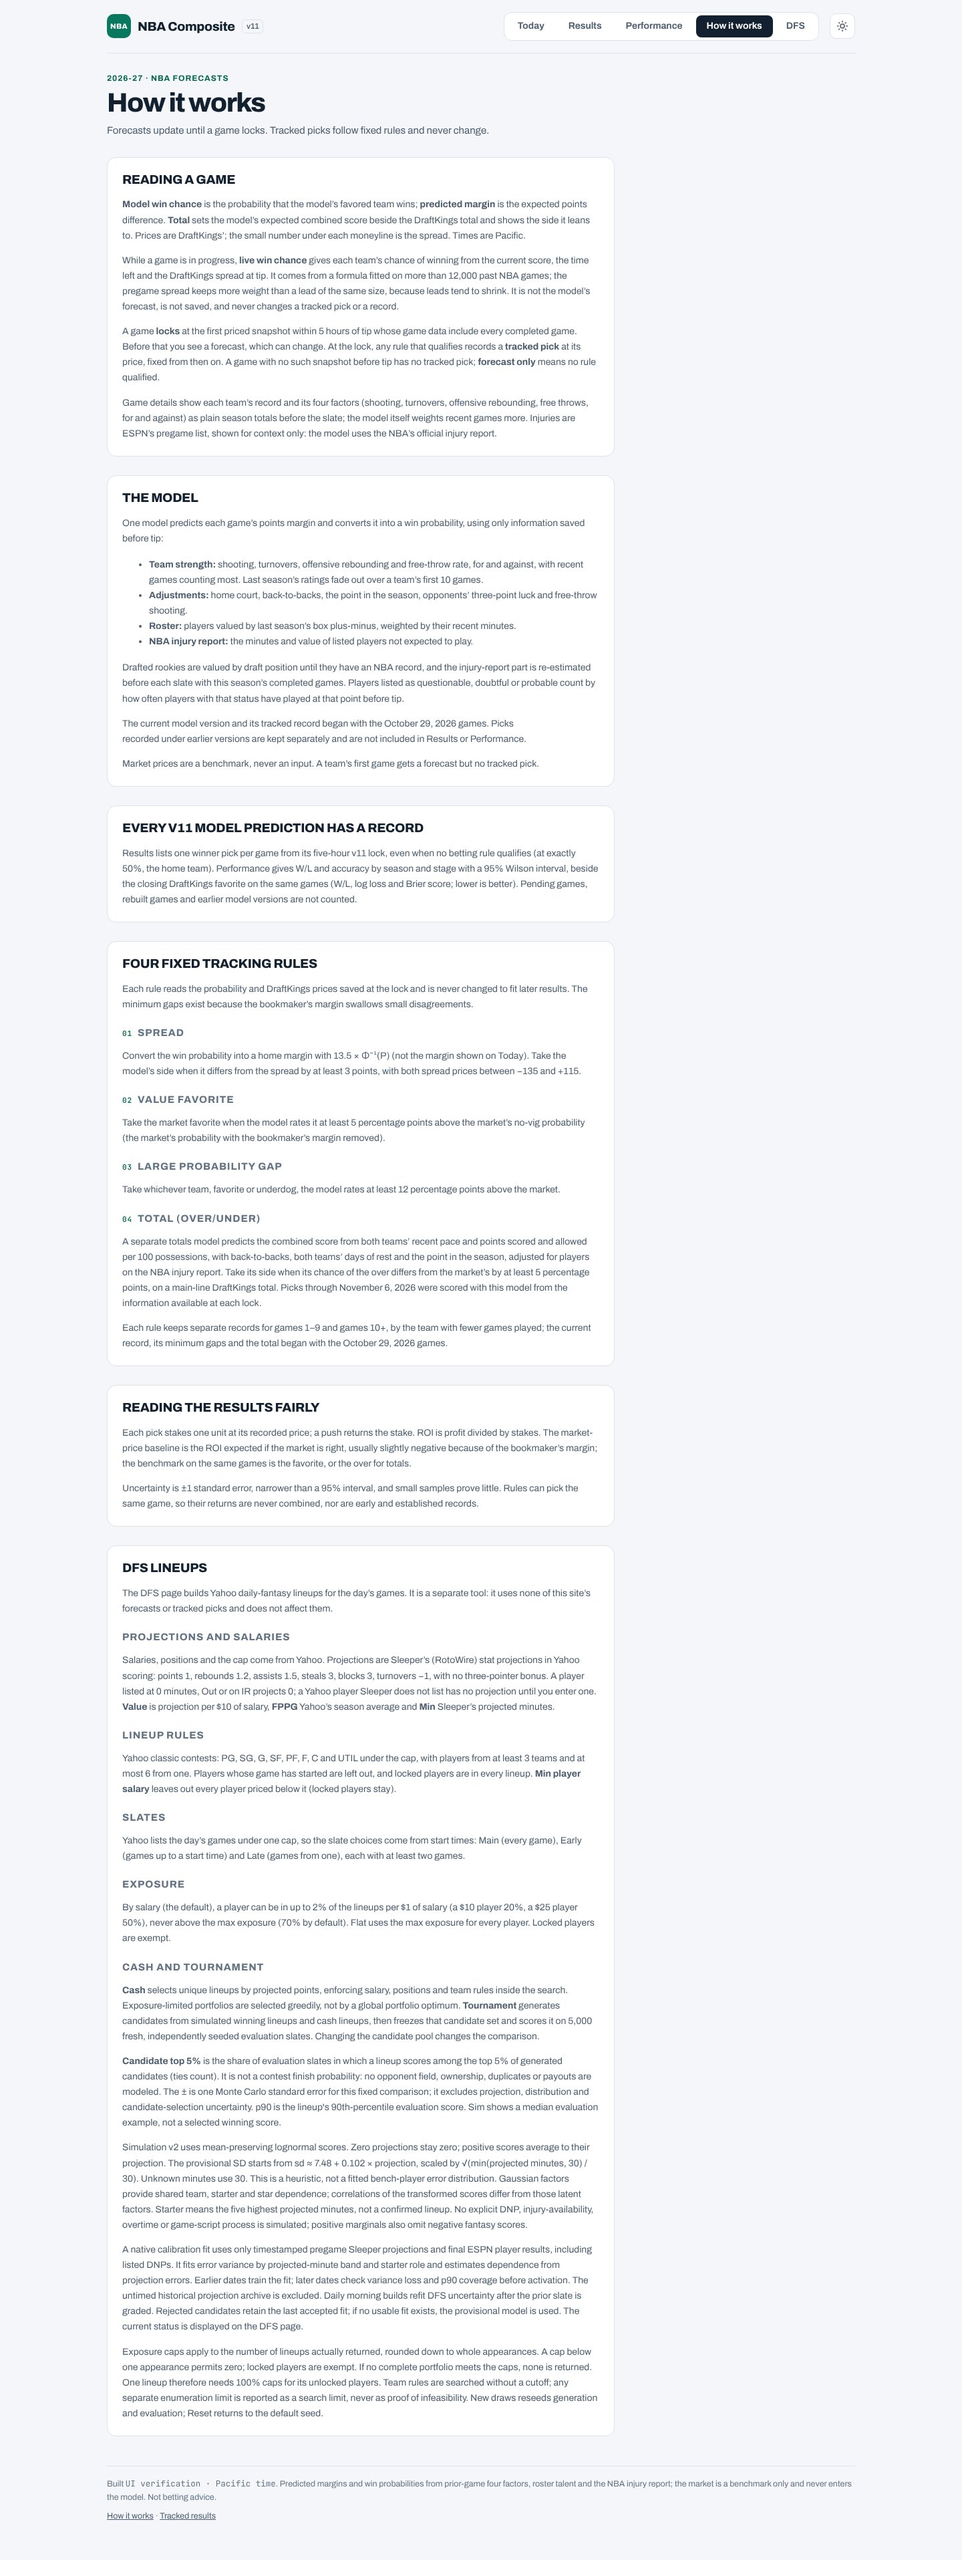
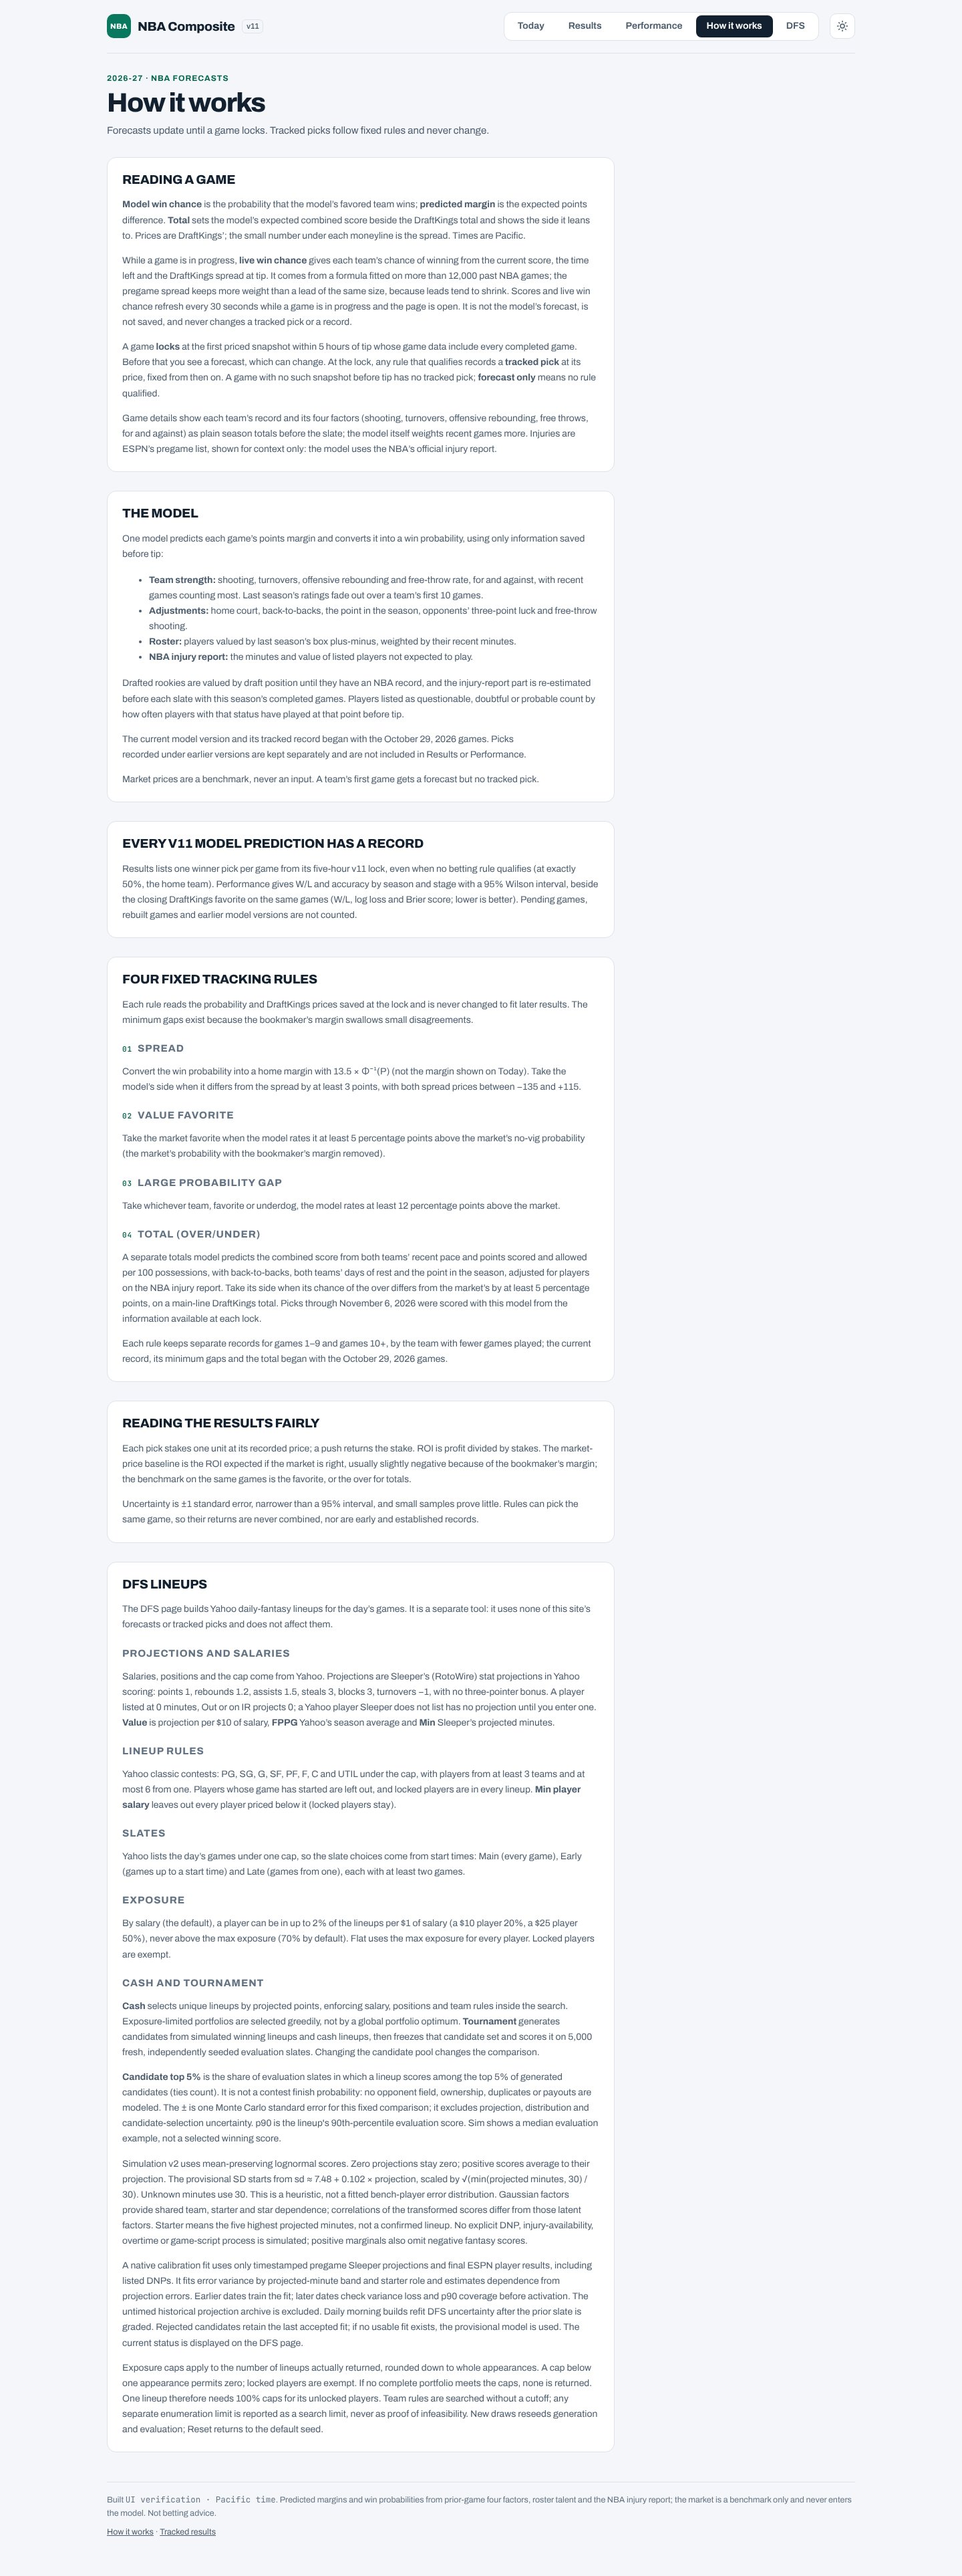
Today: refresh scores and live win chance every 30 s while games are live
The score overlay fetched ESPN's scoreboard once per page load, so an
open page showed stale scores and a stale live win chance. It now
re-fetches while the page is open: every 30 s while one of its games is
in progress; otherwise at the next tip (no sooner than 1 minute, no later
than 10); never once every game is final. A failed fetch retries after
1, 2, ... minutes (at most 10 in a row). A hidden tab does not fetch and
catches up when shown again. Display only, as before.

The browser check drives a fake clock: a live game re-fetched at 30 s
with scores and live win chance updated, a hidden tab waiting and
catching up, the final hiding the readout and stopping the polling, and
a page opened before tip fetching again at the tip. On the real
2026-11-06 slate the open page re-fetched after 30 s and updated all
four live cards. How it works and CLAUDE.md say so.

Claude-Session: https://claude.ai/code/session_01Tymo9CzGMxX6H3C7yoJrYC

Changed region(s): [[0.125, 0.0311, 0.625, 0.9632]]

diff --git a/research/check_public_ui.py b/research/check_public_ui.py
@@ -326,6 +326,73 @@ def main():
                     live.screenshot(path=str(out/f'{device}-fixture-live-card.png'))
                 checks.append(f'Live win chance · BOS {fmt(ph)} / NYK {fmt(1-ph)} at Q2 4:00, 42–38, BOS −6 at tip, '
                               'matching live_wp.win_prob; hidden for a final game; no horizontal overflow')
+                # Auto-refresh (owner request, 2026-11-07): a live game is
+                # re-fetched every 30 s (fake clock), a hidden tab waits and
+                # catches up when shown, polling stops once every game is final
+                def event(state, name, period, clock, home, away):
+                    return {'id': 'fixture-3', 'status': {'type': {'state': state, 'name': name, 'completed': state == 'post',
+                            'shortDetail': 'Final' if state == 'post' else ''}, 'period': period, 'displayClock': clock},
+                            'competitions': [{'competitors': [{'homeAway': 'home', 'score': str(home)},
+                                                              {'homeAway': 'away', 'score': str(away)}]}]}
+                feed = [event('in', 'STATUS_IN_PROGRESS', 2, '4:00', 42, 38), event('in', 'STATUS_IN_PROGRESS', 3, '7:30', 61, 63),
+                        event('in', 'STATUS_IN_PROGRESS', 4, '0:45.5', 99, 99), event('post', 'STATUS_FINAL', 4, '0.0', 101, 99)]
+                calls = []
+                def serve(route):
+                    calls.append(route.request.url)
+                    route.fulfill(json={'events': [feed[min(len(calls), len(feed)) - 1]]})
+                page.unroute_all()
+                page.clock.install()
+                page.route('**/apis/site/v2/sports/basketball/nba/scoreboard?**', serve)
+                page.goto(f'{base}/fixture/index.html')
+                live.locator('.st').filter(has_text='Q2 4:00').wait_for()
+                assert len(calls) == 1, calls
+                page.clock.run_for(31_000)
+                live.locator('.st').filter(has_text='Q3 7:30').wait_for()
+                assert len(calls) == 2
+                assert live.locator('.sc[data-side="home"]').inner_text() == '61'
+                ph = live_wp.win_prob(61 - 63, 6, live_wp.tau(3, 450), fit)
+                assert box.locator('[data-wp="home"]').inner_text() == fmt(ph)
+                page.evaluate("Object.defineProperty(document,'hidden',{value:true,configurable:true})")
+                page.clock.run_for(5 * 60_000)
+                assert len(calls) == 2, 'a hidden tab fetched'
+                page.evaluate("Object.defineProperty(document,'hidden',{value:false,configurable:true});"
+                              "document.dispatchEvent(new Event('visibilitychange'))")
+                live.locator('.st').filter(has_text='Q4 0:45.5').wait_for()
+                assert len(calls) == 3
+                ph4 = live_wp.win_prob(0, 6, live_wp.tau(4, 45.5), fit)
+                assert box.locator('[data-wp="home"]').inner_text() == fmt(ph4)
+                page.clock.run_for(31_000)
+                live.locator('.st').filter(has_text='Final').wait_for()
+                assert len(calls) == 4 and box.is_hidden()
+                assert live.get_attribute('data-state') == 'final'
+                assert live.locator('.sc[data-side="home"]').inner_text() == '101'
+                page.clock.run_for(30 * 60_000)
+                assert len(calls) == 4, 'polling continued after the final'
+                checks.append(f'Auto-refresh · a live game re-fetched every 30 s (Q2 4:00 → Q3 7:30, BOS {fmt(ph)}; '
+                              f'Q4 0:45.5 tied, BOS {fmt(ph4)}); a hidden tab waited and caught up when shown; '
+                              'the final hid the live readout and polling stopped')
+                # opened before tip: the next fetch comes at the tip, then 30 s
+                pre = event('pre', 'STATUS_SCHEDULED', 0, '0:00', 0, 0)
+                pre['date'] = '2026-11-20T03:04:00Z'
+                feed[:] = [pre, event('in', 'STATUS_IN_PROGRESS', 1, '11:40', 2, 0), event('in', 'STATUS_IN_PROGRESS', 1, '11:10', 2, 3)]
+                calls.clear()
+                tab = browser.new_page()
+                tab.clock.install(time='2026-11-20T03:00:00Z')
+                tab.route('**/apis/site/v2/sports/basketball/nba/scoreboard?**', serve)
+                tab.goto(f'{base}/fixture/index.html')
+                tab.locator('[data-gid="fixture-3"]').wait_for(state='attached')
+                tab.wait_for_timeout(200)
+                assert len(calls) == 1 and tab.locator('[data-gid="fixture-3"] [data-live-wp]').is_hidden()
+                tab.clock.run_for(3 * 60_000 + 50_000)
+                assert len(calls) == 1, 'fetched before the tip'
+                tab.clock.run_for(15_000)
+                tab.locator('[data-gid="fixture-3"] .st').filter(has_text='Q1 11:40').wait_for()
+                assert len(calls) == 2 and tab.locator('[data-gid="fixture-3"] [data-live-wp]').is_visible()
+                tab.clock.run_for(31_000)
+                tab.locator('[data-gid="fixture-3"] .st').filter(has_text='Q1 11:10').wait_for()
+                assert len(calls) == 3
+                tab.close()
+                checks.append('Auto-refresh · a page opened 4 min before tip fetched again at the tip, then every 30 s while live')
                 browser.close()
         finally:
             server.shutdown()

diff --git a/build_site.py b/build_site.py
@@ -954,22 +954,32 @@ OPEN_JS = ("<script>(function(){function o(){var h=location.hash.slice(1);if(!h)
            "addEventListener('hashchange',o);addEventListener('DOMContentLoaded',o);})();</script>")
 
 # Today page: live and final scores from ESPN's public scoreboard, fetched by
-# the reader's browser on each page load (display only: never written to
-# data/ and never read by the model). Cards match on the ESPN event id
-# (data-gid); a failed fetch leaves the page as built. A page that defines
-# window.nbaLive (the public Today page: live_wp.script) gets each updated
-# card's state and scores for its live win chance.
+# the reader's browser (display only: never written to data/ and never read
+# by the model). Cards match on the ESPN event id (data-gid); a failed fetch
+# leaves the page as it is. The page re-fetches while it is open: every
+# SCORES_LIVE_MS while one of its games is in progress; otherwise, while one
+# is still to start, at its tip (no sooner than 1 minute, no later than 10);
+# never once every game is final. A failed fetch retries after 1, 2, ...
+# minutes (at most 10 tries in a row). A hidden tab does not fetch and
+# catches up when shown again. A page that defines window.nbaLive (the public
+# Today page: live_wp.script) gets each updated card's state and scores for
+# its live win chance.
+SCORES_LIVE_MS = 30_000
 SCORES_JS = """<script>(function(){
 var g=document.querySelector('[data-slate]');if(!g||!window.fetch)return;
 var u='https://site.api.espn.com/apis/site/v2/sports/basketball/nba/scoreboard?limit=100&dates='
 +g.getAttribute('data-slate').replace(/-/g,'');
+var LIVE=""" + str(SCORES_LIVE_MS) + """,MIN=60000,MAX=600000,t=null,wait=false,fails=0;
 function per(p){return p<=4?'Q'+p:p==5?'OT':(p-4)+'OT';}
-fetch(u,{cache:'no-store'}).then(function(r){return r.ok?r.json():null;}).then(function(j){
-var n=0;((j&&j.events)||[]).forEach(function(e){
+function next(ms){clearTimeout(t);t=setTimeout(tick,ms);}
+function tick(){if(document.hidden){wait=true;return;}load();}
+function load(){fetch(u,{cache:'no-store'}).then(function(r){if(!r.ok)throw r.status;return r.json();}).then(function(j){
+fails=0;var n=0,live=0,soon=Infinity;((j&&j.events)||[]).forEach(function(e){
 var c=document.querySelector(".gcard[data-gid='"+e.id+"']");if(!c)return;
 var st=e.status||{},ty=st.type||{},s={},txt,score=true;
-(((e.competitions||[])[0]||{}).competitors||[]).forEach(function(t){s[t.homeAway]=t.score;});
-if(ty.state==='in'){txt=ty.name==='STATUS_HALFTIME'?'Half':ty.name==='STATUS_END_PERIOD'?
+if(ty.state==='pre'){var d=Date.parse(e.date);soon=Math.min(soon,isFinite(d)?d-Date.now():MAX);return;}
+(((e.competitions||[])[0]||{}).competitors||[]).forEach(function(x){s[x.homeAway]=x.score;});
+if(ty.state==='in'){live++;txt=ty.name==='STATUS_HALFTIME'?'Half':ty.name==='STATUS_END_PERIOD'?
 'End '+per(st.period):ty.name==='STATUS_IN_PROGRESS'?per(st.period)+' '+st.displayClock:ty.shortDetail;}
 else if(ty.state==='post'){txt=ty.shortDetail||'Final';score=!!ty.completed;}
 else return;
@@ -983,7 +993,10 @@ var a=document.querySelector('[data-scores-asof]');
 if(n&&a){a.querySelector('time').textContent=new Date().toLocaleTimeString('en-US',
 {timeZone:'America/Los_Angeles',hour:'numeric',minute:'2-digit'})+' PT';a.hidden=false;}
 if(n&&window.nbaCount)window.nbaCount();
-}).catch(function(){});})();</script>"""
+if(live)next(LIVE);else if(soon<Infinity)next(Math.min(Math.max(soon,MIN),MAX));
+}).catch(function(){if(++fails<=10)next(Math.min(MIN*fails,MAX));});}
+document.addEventListener('visibilitychange',function(){if(!document.hidden&&wait){wait=false;load();}});
+load();})();</script>"""
 
 THEME_JS = ("<script>(function(){var k='nba-theme',r=document.documentElement;"
             "try{var s=localStorage.getItem(k);if(s)r.setAttribute('data-theme',s);}catch(e){}"

diff --git a/public_site.py b/public_site.py
@@ -640,7 +640,7 @@ class PublicSite:
         body = self.head("How it works", "Forecasts update until a game locks. Tracked picks follow fixed rules and never change.")
         body += """<div class='guide'><section><h2>Reading a game</h2>
 <p><b>Model win chance</b> is the probability that the model’s favored team wins; <b>predicted margin</b> is the expected points difference. <b>Total</b> sets the model’s expected combined score beside the DraftKings total and shows the side it leans to. Prices are DraftKings’; the small number under each moneyline is the spread. Times are Pacific.</p>
-<p>While a game is in progress, <b>live win chance</b> gives each team’s chance of winning from the current score, the time left and the DraftKings spread at tip. It comes from a formula fitted on more than 12,000 past NBA games; the pregame spread keeps more weight than a lead of the same size, because leads tend to shrink. It is not the model’s forecast, is not saved, and never changes a tracked pick or a record.</p>
+<p>While a game is in progress, <b>live win chance</b> gives each team’s chance of winning from the current score, the time left and the DraftKings spread at tip. It comes from a formula fitted on more than 12,000 past NBA games; the pregame spread keeps more weight than a lead of the same size, because leads tend to shrink. Scores and live win chance refresh every 30 seconds while a game is in progress and the page is open. It is not the model’s forecast, is not saved, and never changes a tracked pick or a record.</p>
 <p>A game <b>locks</b> at the first priced snapshot within 5 hours of tip whose game data include every completed game. Before that you see a forecast, which can change. At the lock, any rule that qualifies records a <b>tracked pick</b> at its price, fixed from then on. A game with no such snapshot before tip has no tracked pick; <b>forecast only</b> means no rule qualified.</p>
 <p>Game details show each team’s record and its four factors (shooting, turnovers, offensive rebounding, free throws, for and against) as plain season totals before the slate; the model itself weights recent games more. Injuries are ESPN’s pregame list, shown for context only: the model uses the NBA’s official injury report.</p></section>
 <section><h2>The model</h2>

diff --git a/tests/test_live_wp.py b/tests/test_live_wp.py
@@ -92,3 +92,12 @@ def test_live_readout_changes_no_record_or_selection():
     b.live_fit = None
     assert [a.selection(r) for r in a.records] == [b.selection(r) for r in b.records]
     assert a.results_page() == b.results_page() and a.performance_page() == b.performance_page()
+
+
+def test_scores_overlay_keeps_polling_while_a_game_is_live():
+    js = ui.SCORES_JS
+    assert ui.SCORES_LIVE_MS == 30_000 and 'LIVE=30000' in js
+    assert 'if(live)next(LIVE)' in js                     # every 30 s while one is in progress
+    assert 'visibilitychange' in js and 'document.hidden' in js
+    assert 'if(++fails<=10)' in js                        # failed fetches retry, then stop
+    assert js.count('fetch(u') == 1 and js.rstrip().endswith('load();})();</script>')

diff --git a/CLAUDE.md b/CLAUDE.md
@@ -419,6 +419,9 @@ information only, separate from DraftKings and native evidence.
   grade or record. It is labelled apart from the pregame model forecast
   (still the card's one primary probability) and from tracked picks, and
   is absent without a DraftKings spread, before tip and after the final.
+  The open page re-fetches ESPN's scoreboard every 30 s while one of its
+  games is in progress (owner request, 2026-11-07), at each tip before
+  that, and not once every game is final; a hidden tab waits.
 
 - Read `docs/model_guidelines.md` before a model or rule change. The model
   is `MODEL.md` / `nba_composite.py`; prices are `market.py`; pregame locks
